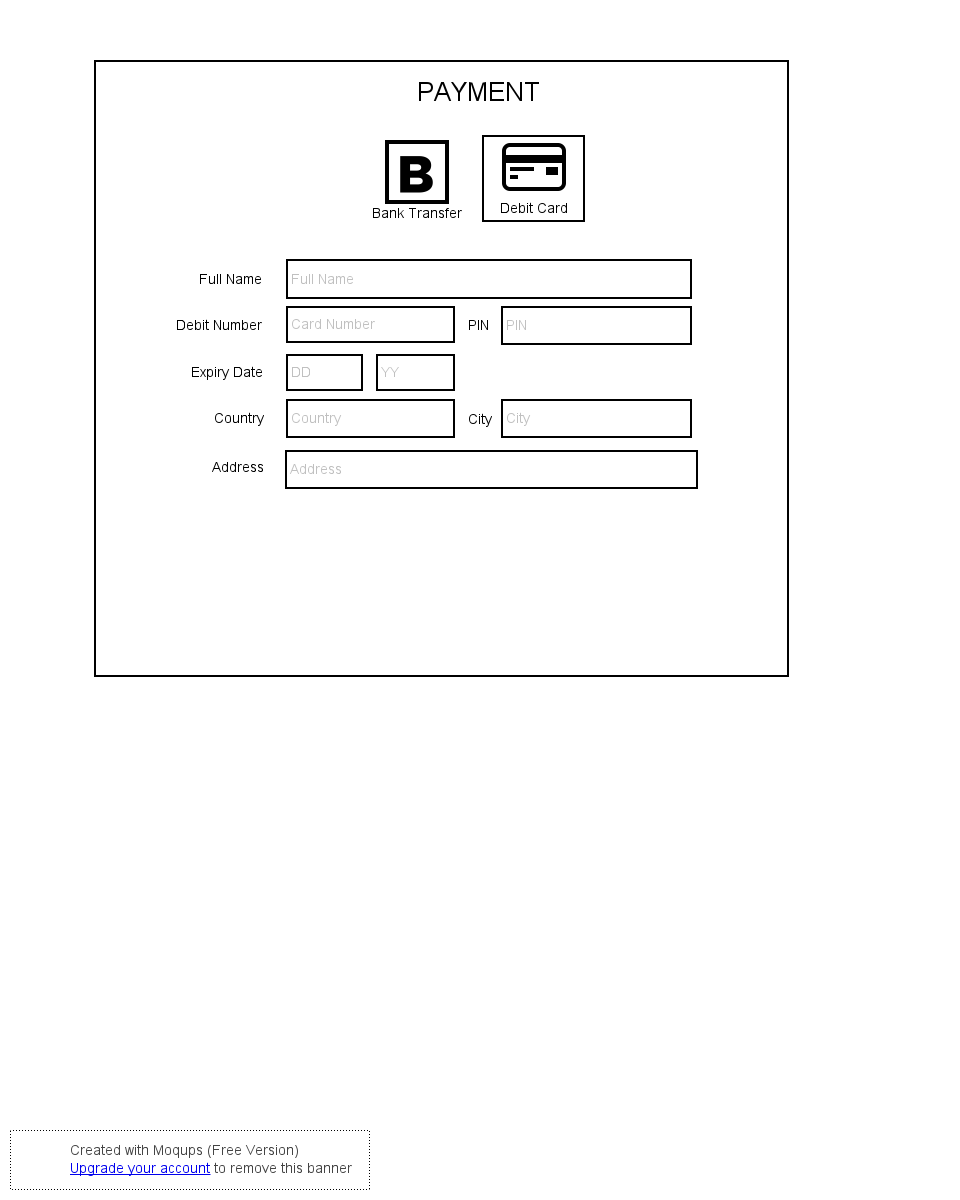
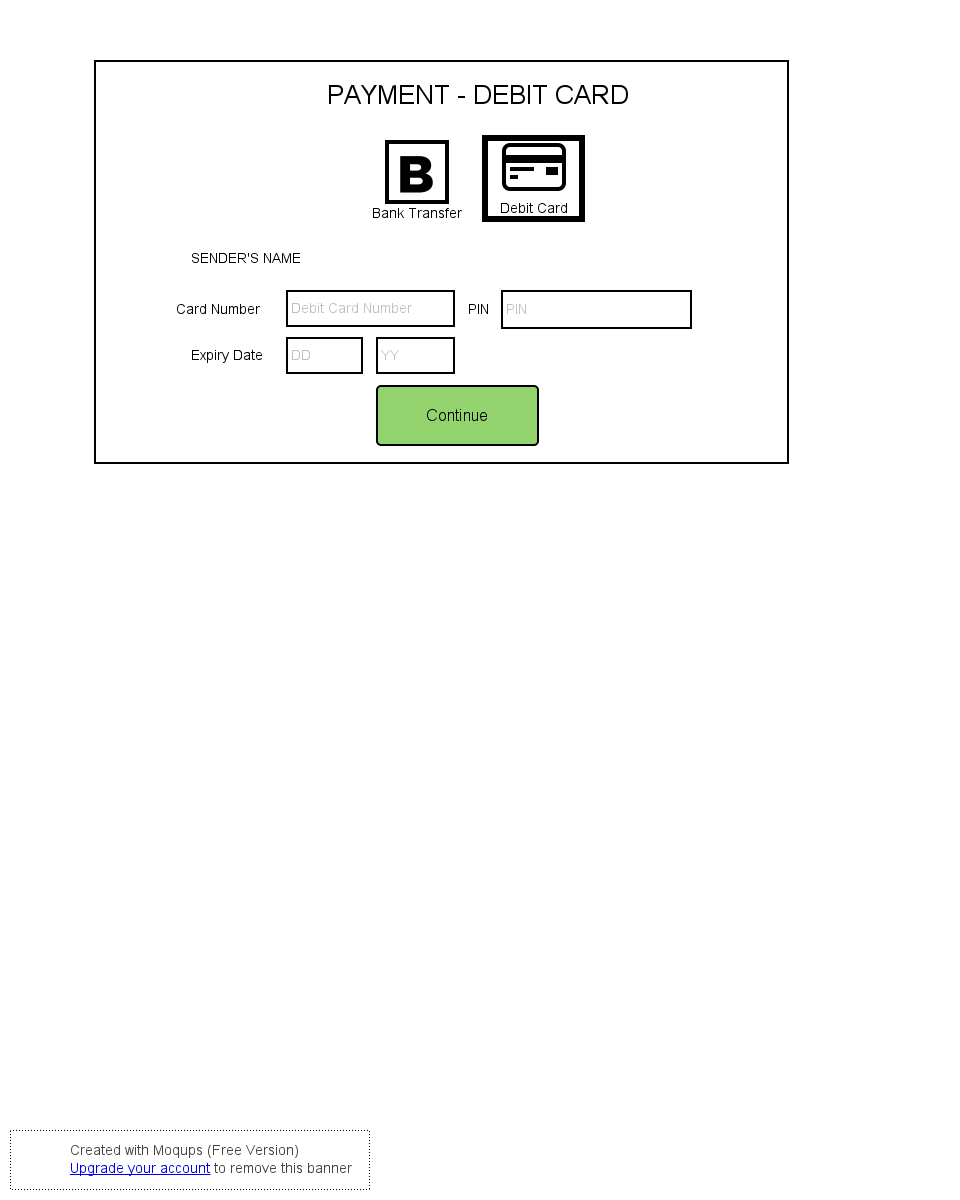
Paper work updated

Changed region(s): [[0.1875, 0.2158, 0.75, 0.4008], [0.3438, 0.0617, 0.6562, 0.185]]

diff --git a/ui_mockups/1.4.html b/ui_mockups/1.4.html
@@ -1,0 +1,89 @@
+<!DOCTYPE html>
+<html lang="en">
+
+<head>
+
+    <meta charset="utf-8">
+    <meta http-equiv="X-UA-Compatible" content="IE=edge">
+    <meta name="viewport" content="width=device-width, initial-scale=1">
+    <meta name="description" content="">
+    <meta name="author" content="">
+
+    <title>Transfer Wise - Recepient Details</title>
+
+    <!-- Bootstrap Core CSS -->
+    <link href="css/bootstrap.min.css" rel="stylesheet">   
+
+    <!-- Custom CSS -->
+    <!-- create your custom CSS  and put in css folder-->
+    <link href="css/xx.css" rel="stylesheet">
+
+    <!-- Custom Fonts -->
+    <link href="font-awesome-4.1.0/css/font-awesome.min.css" rel="stylesheet" type="text/css">
+
+    <!-- HTML5 Shim and Respond.js IE8 support of HTML5 elements and media queries -->
+    <!-- WARNING: Respond.js doesn't work if you view the page via file:// -->
+    <!--[if lt IE 9]>
+        <script src="https://oss.maxcdn.com/libs/html5shiv/3.7.0/html5shiv.js"></script>
+        <script src="https://oss.maxcdn.com/libs/respond.js/1.4.2/respond.min.js"></script>
+    <![endif]-->
+
+</head>
+
+<body>
+
+<div class="container">
+        <div class="row">
+            <div class="col-md-4 col-md-offset-4">
+                <div class="login-panel panel panel-default">
+                    <div class="panel-heading">
+                        <h3 class="panel-title">Payment-Debit Card</h3>
+                    </div>
+                    <div class="panel-body">
+                        <form role="form">
+                            <fieldset>
+                                <div class="form-group">
+                                    <div>
+                                        <div class="glyphicon glyphicon-credit-card" aria-hidden="true" style="width: 15px; text-align: center"></div>
+                                        <div class="glyphicon-class">Debit Card</div>
+                                    </div>
+                                    <div>
+                                        <div class="glyphicon-class">Bank Account</div>
+                                    </div><br/>
+                                    <label>Juhan</label><br/><br/>
+                                    <div class="well" style="width: 100%"> 
+                                    <div class="form-group" style="width: 100%">
+                                    <label style="float: left; width: 200px">Card Number</label><label style="width: 70px; margin-left: 11px">PIN</label>
+                                    <input class="form-control" placeholder="Debit Card Number" name="card" autofocus style="width: 200px; float: left">
+                                    <input class="form-control" placeholder="PIN" name="pin" autofocus style="width: 70px; margin-left: 11px">
+                                </div>
+                                
+                               
+                                    <label style="margin-top: 20px">Expiry Date</label>
+                                    <input class="form-control" placeholder="DD" style="width: 50px; float: left" >
+                                    <input class="form-control" placeholder="MM" style="width: 50px" >
+                                    
+                        
+                                <!-- Change this to a button or input when using this as a form -->
+                                <a href="3.html" class="btn btn-lg btn-success btn-block">CONTINUE </a>
+                            </fieldset>
+                        </form>
+                    </div>
+                </div>
+            </div>
+        </div>
+    </div>
+
+    <!-- jQuery -->
+    <script src="js/jquery.js"></script>
+
+    <!-- Bootstrap Core JavaScript -->
+    <script src="js/bootstrap.min.js"></script>
+
+    <!-- Custom JavaScript -->
+    <!-- create your custom JS and put in js folder-->
+    <script src="js/xx.js"></script>
+
+</body>
+
+</html>
